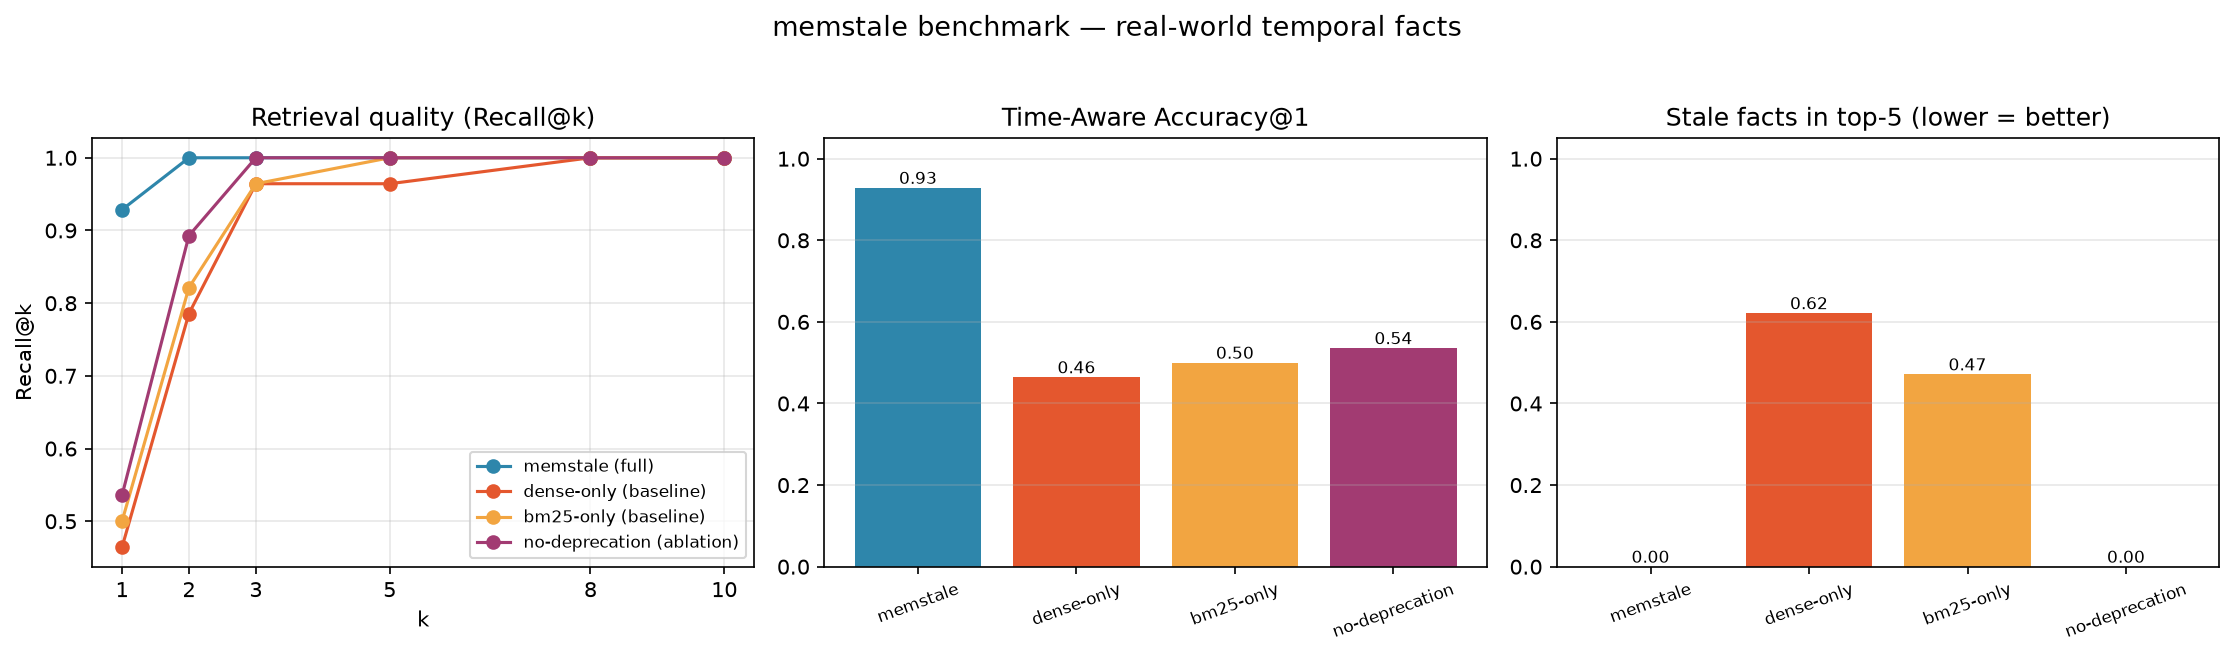
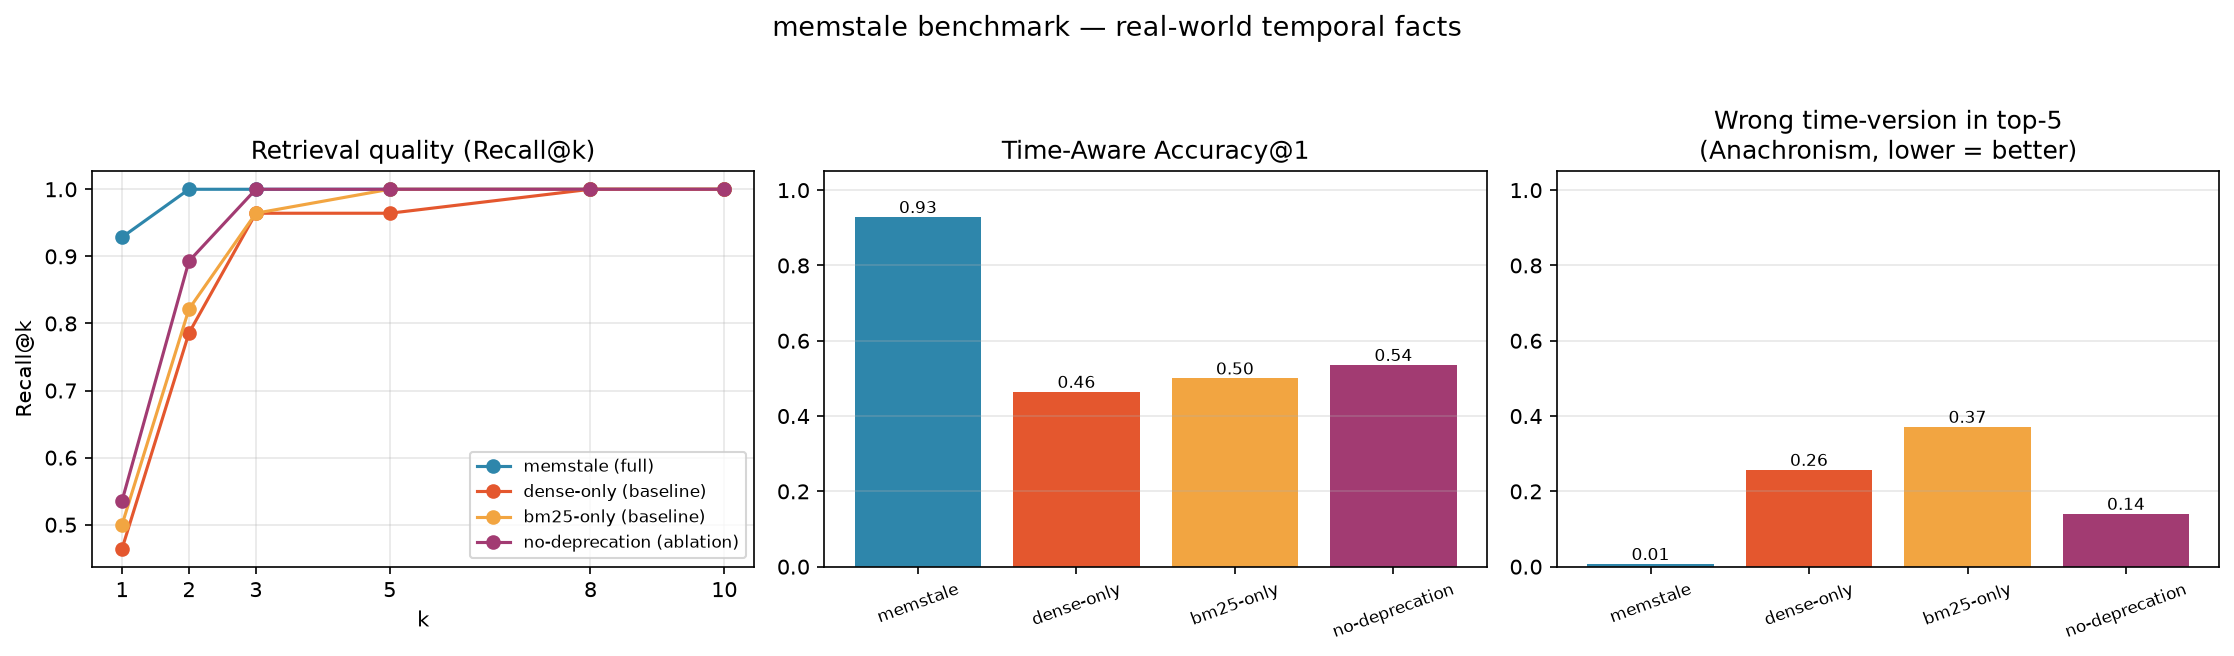
benchmark: refine metric to Anachronism@5; trim README
* Anachronism@5 now measures wrong time-version results of the same
  topic, making the soft-deprecation ablation visible (0.007 vs 0.140)
  instead of the old stale-rate paradox.
* Remove the Architecture diagram section from README.

diff --git a/benchmarks/benchmark.py b/benchmarks/benchmark.py
@@ -42,7 +42,8 @@ def load_facts():
         data = json.load(f)
     facts, queries = [], []
     for topic in data["topics"]:
-        facts.extend(topic["facts"])
+        for fact in topic["facts"]:
+            facts.append({**fact, "topic": topic["topic"]})
         for q in topic["queries"]:
             q = dict(q)
             q["topic"] = topic["topic"]
@@ -60,6 +61,7 @@ def build_memory(facts, auto_resolve: bool) -> AgentMemory:
             effective_at=fact["effective_at"],
             created_at=fact["created_at"],
             source="real-world",
+            metadata={"topic": fact["topic"]},
         )
     return mem
 
@@ -88,19 +90,20 @@ def bm25_only_retrieve(mem, question, at, k):
 
 def evaluate(retrieve_fn, queries, store) -> dict:
     recall = {k: [] for k in K_LIST}
-    stale = {k: [] for k in K_LIST}
+    anachro = {k: [] for k in K_LIST}
     mrr, acc1 = [], []
     misses = []
     for q in queries:
         results = retrieve_fn(q["question"], q["at"], max(K_LIST))
         contents = [m.content for m in results]
         gold = q["gold"]
+        topic = q["topic"]
         for k in K_LIST:
-            topk = contents[:k]
-            recall[k].append(1.0 if topk and gold in topk else 0.0)
-            # stale = fraction of top-k that were NOT the truth at query time
-            invalid = [m for m in results[:k] if not is_effective_at(m, q["at"], store)]
-            stale[k].append(len(invalid) / k if results else 1.0)
+            topk = results[:k]
+            recall[k].append(1.0 if topk and gold in contents[:k] else 0.0)
+            # Anachronism: same-topic results that are the WRONG time version.
+            wrong = [m for m in topk if m.metadata.get("topic") == topic and m.content != gold]
+            anachro[k].append(len(wrong) / len(topk) if topk else 0.0)
         for i, c in enumerate(contents):
             if c == gold:
                 mrr.append(1.0 / (i + 1))
@@ -112,7 +115,7 @@ def evaluate(retrieve_fn, queries, store) -> dict:
             misses.append(f"  {q['topic']:26s} at={q['at'][:10]} -> {gold[:40]}")
     return {
         "recall": {k: mean(recall[k]) for k in K_LIST},
-        "stale": {k: mean(stale[k]) for k in K_LIST},
+        "stale": {k: mean(anachro[k]) for k in K_LIST},
         "mrr": mean(mrr),
         "acc1": mean(acc1),
         "misses": misses,
@@ -140,7 +143,7 @@ def main():
                 print(m)
 
     print("\n=== Headline metrics ===")
-    print(f"{'config':28s} {'MRR':>6s} {'Time-Acc@1':>10s} {'Stale@5':>8s}")
+    print(f"{'config':28s} {'MRR':>6s} {'Time-Acc@1':>10s} {'Anachronism@5':>14s}")
     for name, r in results.items():
         print(f"{name:28s} {r['mrr']:6.3f} {r['acc1']:10.3f} {r['stale'][5]:8.3f}")
 
@@ -198,11 +201,11 @@ def _plot(results: dict) -> None:
     ax.bar_label(bars, fmt="%.2f", fontsize=8)
     ax.grid(axis="y", alpha=0.3)
 
-    # 3) Stale rate (outdated / future facts leaking into results)
+    # 3) Anachronism rate (wrong time version of same-topic fact in results)
     ax = axes[2]
     stale = [results[n]["stale"][5] for n in names]
     bars = ax.bar(range(len(names)), stale, color=[colors[n] for n in names])
-    ax.set_title("Stale facts in top-5 (lower = better)")
+    ax.set_title("Wrong time-version in top-5\n(Anachronism, lower = better)")
     ax.set_xticks(range(len(names)))
     ax.set_xticklabels([n.split(" ")[0] for n in names], rotation=20, fontsize=8)
     ax.set_ylim(0, 1.05)

diff --git a/README.md b/README.md
@@ -74,25 +74,6 @@ semantically similar?"* but are blind to truth, time and relationships.
 
 ## 🏗 How it works
 
-### Architecture
-
-```mermaid
-flowchart TB
-    subgraph App["Agent Application"]
-        A[Python API] --> F
-        B[CLI] --> F
-        C[MCP Server] --> F
-    end
-    subgraph Core["memstale core"]
-        F[AgentMemory facade] --> S[store · SQLite + FTS5]
-        F --> T[timeline · bitemporal]
-        F --> CF[conflict · soft-deprecation]
-        F --> R[retriever · BM25 + dense + RRF]
-        F --> G[graph · entity relations]
-        F --> E[embedder · pluggable]
-    end
-```
-
 ### Conflict resolution flow
 
 ```mermaid
@@ -220,23 +201,25 @@ ablation that disables conflict soft-deprecation.
 
 ### Headline metrics
 
-| config | MRR | Time-Acc@1 | Stale@5 |
+| config | MRR | Time-Acc@1 | Anachronism@5 |
 |---|---:|---:|---:|
-| **memstale (full)** | **0.964** | **0.929** | **0.000** |
-| dense-only (baseline) | 0.690 | 0.464 | 0.621 |
-| bm25-only (baseline) | 0.717 | 0.500 | 0.471 |
-| no-deprecation (ablation) | 0.750 | 0.536 | 0.000 |
+| **memstale (full)** | **0.964** | **0.929** | **0.007** |
+| dense-only (baseline) | 0.690 | 0.464 | 0.257 |
+| bm25-only (baseline) | 0.717 | 0.500 | 0.371 |
+| no-deprecation (ablation) | 0.750 | 0.536 | 0.140 |
 
 **What this tells you**
 
 - **Time-Acc@1** = fraction of queries whose top-1 result is the fact that
   was *true at the query's timestamp*. `memstale` nearly doubles the next
   best baseline — the **bitemporal filter + conflict soft-deprecation** is
-  what makes the difference (compare to the *no-deprecation* ablation).
-- **Stale@5** = fraction of top-5 results that are **not** the truth at
-  query time (outdated or future facts). Plain vector memory leaks 60%+
-  stale facts; `memstale` returns zero — the agent never reads a wrong-year
-  fact again.
+  what makes the difference.
+- **Anachronism@5** = fraction of top-5 results that are the **wrong time
+  version** of the same-topic fact (e.g. answering "2020's CEO" with the
+  2022's one). `memstale` scores ~0; plain vector memory leaks 26–37%; and
+  the *no-deprecation* ablation (14%) shows exactly what soft-deprecation
+  contributes on top of time filtering — without the `replaced_by` link,
+  outdated versions can't be recognized and removed.
 - **MRR** = mean reciprocal rank of the correct time-version.
 
 Reproduce:
